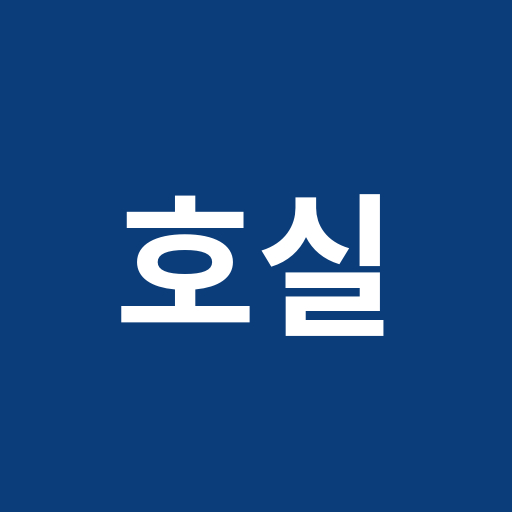
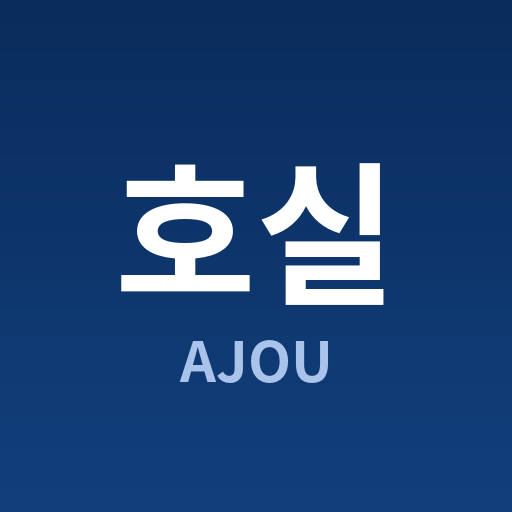
PC·모바일 통합 반응형 리디자인, sw v4, 데스크톱 설치

Changed region(s): [[0.0, 0.0, 1.0, 0.1875], [0.2188, 0.3125, 0.75, 0.75], [0.6875, 0.3125, 0.75, 0.4062]]

diff --git a/index.html b/index.html
@@ -1,70 +1,141 @@
-<!doctype html><html lang="ko"><head><meta charset="utf-8"><meta name="viewport" content="width=device-width,initial-scale=1,viewport-fit=cover">
-<title>호실조회</title><link rel="manifest" href="manifest.webmanifest"><meta name="theme-color" content="#0b3d7a">
-<link rel="apple-touch-icon" href="icon-192.png"><meta name="apple-mobile-web-app-capable" content="yes">
+<!doctype html><html lang="ko"><head><meta charset="utf-8">
+<meta name="viewport" content="width=device-width,initial-scale=1,viewport-fit=cover">
+<title>아주대 호실 조회</title><link rel="manifest" href="manifest.webmanifest"><meta name="theme-color" content="#0a2c5c">
+<link rel="icon" href="icon-192.png"><link rel="apple-touch-icon" href="icon-192.png"><meta name="apple-mobile-web-app-capable" content="yes">
+<link rel="stylesheet" href="https://cdn.jsdelivr.net/gh/orioncactus/pretendard@v1.3.9/dist/web/variable/pretendardvariable-dynamic-subset.min.css">
 <style>
-*{box-sizing:border-box}body{font-family:'Malgun Gothic','Apple SD Gothic Neo',sans-serif;margin:0;background:#f4f6f9;color:#222}
-header{background:#0b3d7a;color:#fff;padding:12px 14px;font-size:18px;font-weight:bold;padding-top:calc(12px + env(safe-area-inset-top))}
-.bar{position:sticky;top:0;background:#fff;padding:10px;display:flex;flex-direction:column;gap:8px;box-shadow:0 1px 3px #0002;z-index:2}
-input,select{font-size:16px;padding:10px;border:1px solid #bbb;border-radius:8px;width:100%}
-#info{padding:8px 14px;color:#666;font-size:13px}
-.it{background:#fff;margin:0 10px 8px;border-radius:10px;padding:12px;box-shadow:0 1px 2px #0002}
-.it b{font-size:15px}.it .s{color:#666;font-size:13px;margin-top:3px}
-mark{background:#ffe066}
-.chip:hover::after{content:attr(data-tip);position:absolute;left:50%;bottom:125%;transform:translateX(-50%);background:#222;color:#fff;padding:4px 8px;border-radius:4px;white-space:nowrap;font-size:12px;z-index:50;pointer-events:none}
-.asb{display:inline-block;background:#d62828;color:#fff;border-radius:4px;padding:1px 6px;font-size:12px;margin-left:4px}.asb.b{background:#e07a00}
-.chip{display:inline-block;background:#e3ecf8;color:#0b3d7a;border-radius:12px;padding:3px 10px;margin:2px;font-size:13px;position:relative;cursor:pointer}
-#sh{position:fixed;inset:0;background:#0006;display:none;z-index:9}#sh.on{display:block}
-.sheet{position:absolute;left:0;right:0;bottom:0;background:#fff;border-radius:16px 16px 0 0;padding:16px 18px calc(20px + env(safe-area-inset-bottom));max-height:85vh;overflow:auto}
-.sheet h3{margin:4px 0 12px}.grab{width:40px;height:4px;background:#ccc;border-radius:2px;margin:0 auto 8px}
-dl{display:grid;grid-template-columns:80px 1fr;gap:10px;margin:0}dt{color:#666}dd{margin:0}
-.code{font-size:12px;color:#555;margin-top:4px}.muted{color:#999}
-button{width:100%;margin-top:16px;padding:12px;font-size:16px;border:0;border-radius:8px;background:#0b3d7a;color:#fff}
+:root{--navy:#0a2c5c;--navy2:#123f7d;--acc:#2f6fdb;--bg:#f3f5f9;--card:#fff;--line:#e6e9ef;--tx:#1b2433;--sub:#667085;--mut:#98a2b3;--r:14px;--sh:0 1px 2px rgba(16,24,40,.05),0 4px 14px rgba(16,24,40,.06)}
+*{box-sizing:border-box}html,body{margin:0;height:100%}
+body{font-family:'Pretendard Variable',Pretendard,-apple-system,'Malgun Gothic','Apple SD Gothic Neo',sans-serif;background:var(--bg);color:var(--tx);font-size:14px;-webkit-font-smoothing:antialiased}
+header{background:linear-gradient(120deg,var(--navy),var(--navy2));color:#fff;padding:18px 28px calc(64px) ;padding-top:calc(18px + env(safe-area-inset-top))}
+.hd{display:flex;align-items:center;gap:12px;max-width:1400px;margin:0 auto}
+.logo{width:36px;height:36px;border-radius:10px;background:rgba(255,255,255,.14);display:grid;place-items:center;font-weight:800;font-size:13px}
+.hd h1{font-size:19px;margin:0;font-weight:700;letter-spacing:-.3px}.hd .dt{margin-left:auto;font-size:12px;opacity:.75}
+.lock{background:none;border:1px solid rgba(255,255,255,.3);color:#fff;border-radius:8px;padding:5px 10px;font:inherit;font-size:12px;cursor:pointer;margin-left:10px}
+.main{max-width:1400px;margin:-48px auto 0;padding:0 28px 28px}
+.sbox{background:var(--card);border-radius:var(--r);box-shadow:var(--sh);padding:14px;display:flex;gap:10px;flex-wrap:wrap;align-items:center}
+.inp{flex:1;min-width:220px;position:relative}.inp svg{position:absolute;left:14px;top:50%;transform:translateY(-50%);color:var(--mut)}
+.inp input{width:100%;height:46px;border:1.5px solid var(--line);border-radius:10px;padding:0 44px;font:inherit;font-size:16px;outline:none;transition:.15s}
+.inp input:focus{border-color:var(--acc);box-shadow:0 0 0 4px rgba(47,111,219,.12)}
+.kbd{position:absolute;right:12px;top:50%;transform:translateY(-50%);border:1px solid var(--line);border-radius:6px;padding:1px 7px;font-size:12px;color:var(--mut)}
+select{height:46px;border:1.5px solid var(--line);border-radius:10px;padding:0 12px;font:inherit;font-size:15px;background:#fff;min-width:150px;outline:none}
+.bchips{display:flex;gap:6px;overflow-x:auto;padding:12px 2px 2px;scrollbar-width:none}.bchips::-webkit-scrollbar{display:none}
+.bc{flex:none;border:1px solid var(--line);background:#fff;border-radius:999px;padding:6px 12px;font:inherit;font-size:13px;color:var(--sub);cursor:pointer}
+.bc.on{background:var(--navy);border-color:var(--navy);color:#fff}
+.grid{display:grid;grid-template-columns:1fr;gap:16px;margin-top:16px}
+.panel{background:var(--card);border-radius:var(--r);box-shadow:var(--sh);overflow:hidden}
+.ph{padding:14px 18px;border-bottom:1px solid var(--line);display:flex;align-items:center;gap:8px;font-weight:600}.ph .n{color:var(--sub);font-weight:500;font-size:13px}
+.it{padding:13px 18px;border-bottom:1px solid var(--line);cursor:pointer;display:flex;gap:12px;align-items:center;transition:background .1s}
+.it:last-child{border-bottom:0}.it:hover{background:#f7f9fc}.it.sel{background:#eef4ff;box-shadow:inset 3px 0 var(--acc)}
+.rn{flex:none;min-width:62px;height:38px;padding:0 8px;border-radius:9px;background:#eef2f8;color:var(--navy);font-weight:700;display:grid;place-items:center;font-size:14px}
+.it .t{min-width:0;flex:1}.it .nm{font-weight:600;font-size:15px;white-space:nowrap;overflow:hidden;text-overflow:ellipsis}
+.it .s{color:var(--sub);font-size:12.5px;margin-top:2px}.it .ar{color:var(--mut);font-size:13px;flex:none}
+mark{background:#ffe58a;color:inherit;border-radius:3px;padding:0 1px}
+.bdg{display:inline-flex;align-items:center;gap:4px;font-size:11.5px;font-weight:600;border-radius:6px;padding:2px 7px;margin-left:6px;vertical-align:1px;white-space:nowrap}
+.bdg.t{background:#fdecec;color:#c62828;border:1px solid #f5c2c2}.bdg.b{background:#fff3e0;color:#b45309;border:1px solid #fbd38d}
+.bdg::before{content:'';width:6px;height:6px;border-radius:50%;background:currentColor}
+.chip{display:inline-block;background:#eaf1fd;color:var(--navy2);border-radius:999px;padding:3px 11px;margin:2px 4px 2px 0;font-size:12.5px;font-weight:600;position:relative;cursor:pointer}
+.chip:hover{background:var(--navy2);color:#fff}
+.chip:hover::after{content:attr(data-tip);position:absolute;left:50%;bottom:calc(100% + 8px);transform:translateX(-50%);background:#1b2433;color:#fff;padding:6px 10px;border-radius:7px;white-space:nowrap;font-size:12px;font-weight:500;z-index:50;pointer-events:none;box-shadow:0 6px 16px rgba(0,0,0,.2)}
+.chip:hover::before{content:'';position:absolute;left:50%;bottom:calc(100% + 3px);transform:translateX(-50%);border:5px solid transparent;border-top-color:#1b2433;z-index:50}
+.mut{color:var(--mut)}
+.det{padding:20px 22px}.det .loc{color:var(--sub);font-size:13px;font-weight:500}.det h2{margin:4px 0 16px;font-size:22px;letter-spacing:-.4px}
+.kv{display:grid;grid-template-columns:repeat(2,1fr);gap:10px;margin-bottom:12px}
+.kv>div{background:#f7f9fc;border:1px solid var(--line);border-radius:10px;padding:10px 12px}.kv>.full{grid-column:1/-1}
+.kv label{display:block;color:var(--sub);font-size:12px;margin-bottom:3px}.kv b{font-weight:600;font-size:14.5px}
+.code{font-size:12px;color:var(--sub);margin-top:6px;min-height:16px}
+.ft{width:100%;border-collapse:collapse;font-size:13px}.ft td,.ft th{padding:8px 18px;border-top:1px solid var(--line);text-align:left;vertical-align:middle}
+.ft th{background:#f7f9fc;color:var(--sub);font-weight:600;font-size:12px}.ft tr.c{cursor:pointer}.ft tr.c:hover{background:#f7f9fc}.ft tr.hit{background:#eef4ff}.ft td:first-child{white-space:nowrap}
+.empty{padding:48px 24px;text-align:center;color:var(--sub)}.empty .ic{font-size:34px;margin-bottom:10px}.empty b{display:block;color:var(--tx);font-size:16px;margin-bottom:6px}
+.ex{display:inline-block;margin:4px;padding:5px 11px;border-radius:999px;background:#eef2f8;color:var(--navy);cursor:pointer;font-size:13px}
+.note{color:var(--mut);font-size:12px;padding:10px 4px 0}
+#sh{position:fixed;inset:0;background:rgba(15,23,42,.45);display:none;z-index:30}#sh.on{display:block}
+.sheet{position:absolute;left:0;right:0;bottom:0;background:#fff;border-radius:20px 20px 0 0;max-height:88vh;overflow:auto;padding-bottom:calc(16px + env(safe-area-inset-bottom));animation:up .2s ease}
+@keyframes up{from{transform:translateY(40px);opacity:.5}}
+.grab{width:40px;height:4px;background:#d0d5dd;border-radius:2px;margin:10px auto 0}
+.cls{display:block;margin:12px 18px 0;width:calc(100% - 36px);height:48px;border:0;border-radius:12px;background:var(--navy);color:#fff;font:inherit;font-size:16px;font-weight:600}
+#detail{display:none}
+@media(min-width:1000px){.grid{grid-template-columns:minmax(380px,5fr) 7fr;align-items:start}
+ #detail{display:block;position:sticky;top:16px;max-height:calc(100vh - 32px);overflow:auto}#res{max-height:calc(100vh - 220px);overflow:auto}}
+@media(max-width:640px){header{padding:14px 16px 56px;padding-top:calc(14px + env(safe-area-inset-top))}.main{padding:0 12px 20px}.hd .dt{display:none}
+ .sbox{padding:10px}select{width:100%}.inp{min-width:100%}.kbd{display:none}.det{padding:16px 18px}.ft td,.ft th{padding:8px 12px}}
+#pin{position:fixed;inset:0;z-index:60;background:radial-gradient(1200px 600px at 20% -10%,#1d4f96,transparent),linear-gradient(160deg,#0a2c5c,#061a38);display:grid;place-items:center;padding:24px}
+.pc{background:rgba(255,255,255,.98);border-radius:20px;padding:34px 28px;width:100%;max-width:360px;text-align:center;box-shadow:0 20px 60px rgba(0,0,0,.35)}
+.pc .logo{margin:0 auto 14px;width:56px;height:56px;border-radius:16px;background:var(--navy);color:#fff;font-size:17px}
+.pc h2{margin:0 0 6px;font-size:21px}.pc p{margin:0 0 22px;color:var(--sub);font-size:13.5px}
+.pc input{width:100%;height:54px;border:1.5px solid var(--line);border-radius:12px;text-align:center;font-size:26px;letter-spacing:14px;font-family:inherit;outline:none}
+.pc input:focus{border-color:var(--acc);box-shadow:0 0 0 4px rgba(47,111,219,.12)}
+.pc button{margin-top:12px;width:100%;height:50px;border:0;border-radius:12px;background:var(--navy);color:#fff;font:inherit;font-size:16px;font-weight:600;cursor:pointer}
+.pe{color:#d92d20;font-size:13px;min-height:18px;margin-top:10px}.shake{animation:sk .3s}@keyframes sk{25%{transform:translateX(-6px)}75%{transform:translateX(6px)}}
 </style></head><body>
-<header>호실조회</header>
-<div class="bar"><select id="bf"><option value="">전체 건물</option></select>
-<input id="q" type="search" autocomplete="off" placeholder="호실번호 또는 호실명 (예: 432, 학장실)"></div>
-<div id="info">불러오는 중…</div><div id="list"></div>
-<div id="pin" style="position:fixed;inset:0;background:#0b3d7a;z-index:20;display:flex;flex-direction:column;align-items:center;justify-content:center;color:#fff;gap:14px;padding:30px">
-<div style="font-size:22px;font-weight:bold">호실조회</div><div style="font-size:14px;opacity:.8">비밀번호를 입력하세요</div>
-<input id="pw" type="password" inputmode="numeric" autocomplete="off" style="max-width:220px;text-align:center;font-size:22px;letter-spacing:8px">
-<button id="ub" style="max-width:220px;margin:0;background:#fff;color:#0b3d7a;font-weight:bold">확인</button><div id="pe" style="color:#ffb3b3;font-size:14px;min-height:18px"></div></div>
-<div id="sh" onclick="if(event.target==this)cl()"><div class="sheet" id="sc"></div></div>
+<div id="pin"><div class="pc" id="pcard"><div class="logo">AJOU</div><h2>아주대 호실 조회</h2><p>시설팀 내부용 · 비밀번호를 입력하세요</p>
+<input id="pw" type="password" inputmode="numeric" autocomplete="off" maxlength="12"><button id="ub">잠금 해제</button><div class="pe" id="pe"></div></div></div>
+<header><div class="hd"><div class="logo">AJOU</div><h1>아주대 호실 조회</h1><span class="dt">자료 기준 2026.10.14 · 공간포털 + 시설팀 공사대장</span><button class="lock" onclick="lockApp()">잠금</button></div></header>
+<div class="main">
+<div class="sbox"><select id="bf"><option value="">전체 건물</option></select>
+<div class="inp"><svg width="18" height="18" viewBox="0 0 24 24" fill="none" stroke="currentColor" stroke-width="2.2"><circle cx="11" cy="11" r="7"/><path d="m20 20-3.5-3.5"/></svg>
+<input id="q" type="search" autocomplete="off" placeholder="호실번호 또는 호실명 (예: 432, 학장실, 팔달관 432)"><span class="kbd">/</span></div>
+<div class="bchips" id="bchips" style="width:100%"></div></div>
+<div class="grid"><div class="panel"><div class="ph">검색 결과 <span class="n" id="info"></span></div><div id="res"></div></div>
+<div class="panel" id="detail"></div></div>
+<div class="note">기숙사·부속시설 등 일부 건물은 조회 대상에서 제외됩니다. 공사 연도에 마우스를 올리거나 누르면 공사번호가 보입니다.</div></div>
+<div id="sh" onclick="if(event.target==this)cl()"><div class="sheet"><div class="grab"></div><div id="sc"></div><button class="cls" onclick="cl()">닫기</button></div></div>
 <script>
-let S=[],R=[];const $=id=>document.getElementById(id);
+let S=[],R=[],key='';const $=id=>document.getElementById(id);const wide=()=>matchMedia('(min-width:1000px)').matches;
 const norm=s=>String(s).replace(/\s|-/g,'').toUpperCase();
-const esc=s=>String(s??'').replace(/[&<>"]/g,c=>({'&':'&amp;','<':'&lt;','>':'&gt;','"':'&quot;'}[c]));
-const asb=x=>x.asb=='텍스'?'<span class="asb">석면</span>':x.asb=='밤'?'<span class="asb b">석면(밤라이트)</span>':'';
+const esc=s=>String(s??'').replace(/[&<>"']/g,c=>({'&':'&amp;','<':'&lt;','>':'&gt;','"':'&quot;',"'":'&#39;'}[c]));
+const asb=x=>x.asb=='텍스'?'<span class="bdg t" title="석면텍스 (천장재)">석면</span>':x.asb=='밤'?'<span class="bdg b" title="밤라이트 (벽체)">석면(밤라이트)</span>':'';
 function hl(t,k){t=String(t??'');if(!k)return esc(t);const re=new RegExp([...k].map(c=>c.replace(/[.*+?^${}()|[\]\\]/g,'\\$&')).join('\\s*'),'i');const m=t.match(re);
  return m?esc(t.slice(0,m.index))+'<mark>'+esc(m[0])+'</mark>'+esc(t.slice(m.index+m[0].length)):esc(t)}
-function search(){const q=$('q').value.normalize('NFC').replace(/\s+/g,' ').trim(),bf=$('bf').value,P=bf?S.filter(x=>x.b==bf):S;let res=[],key='';
- if(!q){if(!bf){$('info').textContent='건물을 고르거나 검색어를 입력하세요';$('list').innerHTML='';return}res=P}
+function chips(w){if(!w||!w.length)return '<span class="mut">이력 없음</span>';const g={};w.forEach(([y,c])=>(g[y]=g[y]||[]).push(c));
+ return Object.keys(g).sort().map(y=>{const t=esc(g[y].join(', '));return `<span class="chip" data-tip="${t}" onclick="showCode(this,'${y}')">${y}${g[y].length>1?' ×'+g[y].length:''}</span>`}).join('')}
+function showCode(e,y){const c=e.closest('[data-cw]');if(c){const o=c.querySelector('.code');if(o)o.textContent=y+' → '+e.dataset.tip}}
+const EMPTY=`<div class="empty"><div class="ic">🔎</div><b>호실을 검색해 보세요</b>호실번호·호실명으로 찾거나 건물을 골라 전체 호실을 볼 수 있어요.<br><br>
+<span class="ex" onclick="ex('학장실')">학장실</span><span class="ex" onclick="ex('팔달관 432')">팔달관 432</span><span class="ex" onclick="ex('세미나실')">세미나실</span></div>`;
+function ex(q){$('q').value=q;search()}
+function search(){const q=$('q').value.normalize('NFC').replace(/\s+/g,' ').trim(),bf=$('bf').value,P=bf?S.filter(x=>x.b==bf):S;let res=[];key='';
+ if(!q){if(!bf){$('info').textContent='';$('res').innerHTML=EMPTY;$('detail').innerHTML=EMPTY;return}res=P}
  else{const m=q.match(/^(.*?)\s*([A-Za-z]?\d[\dA-Za-z\-]*)$/);
   if(m){const b=m[1].trim(),r=norm(m[2]);res=P.filter(x=>(!b||x.b.includes(b))&&norm(x.r)==r);if(!res.length)res=P.filter(x=>(!b||x.b.includes(b))&&norm(x.r).startsWith(r))}
   if(!res.length){const p=q.split(' ');let b='',t=q;if(p.length>1&&P.some(x=>x.b.includes(p[0]))){b=p[0];t=p.slice(1).join(' ')}
    key=t.replace(/\s/g,'').toUpperCase();res=P.filter(x=>(!b||x.b.includes(b))&&String(x.n??'').replace(/\s/g,'').toUpperCase().includes(key));
    if(!res.length&&!b){key=q.replace(/\s/g,'').toUpperCase();res=P.filter(x=>String(x.n??'').replace(/\s/g,'').toUpperCase().includes(key))}}}
- R=res.slice(0,100);$('info').textContent=res.length?res.length+'건'+(res.length>100?' (상위 100건)':''):'검색 결과가 없습니다';
- $('list').innerHTML=R.map((x,i)=>`<div class="it" onclick="op(${i})"><b>${esc(x.b)} ${esc(x.r)}</b> · ${hl(x.n,key)}${asb(x)}<div class="s">${esc(x.f)} · ${esc(x.u)} · ${x.a??'-'}㎡</div></div>`).join('')}
-function chips(w){if(!w||!w.length)return '<span class="muted">이력 없음</span>';const g={};w.forEach(([y,c])=>(g[y]=g[y]||[]).push(c));
- const ys=Object.keys(g).sort();return ys.map(y=>`<span class="chip" data-tip="${esc(g[y].join(', '))}" title="${esc(g[y].join(', '))}" onclick="this.parentNode.querySelector('.code').textContent='${y}: '+this.title">${y}${g[y].length>1?' ×'+g[y].length:''}</span>`).join('')+'<div class="code muted">연도를 누르면 공사번호가 보여요</div>'}
-function op(i){const x=R[i];$('sc').innerHTML=`<div class="grab"></div><h3>${esc(x.b)} ${esc(x.f)} ${esc(x.r)}호</h3><dl>
-<dt>호실명</dt><dd>${esc(x.n)}</dd><dt>용도</dt><dd>${esc(x.u)}</dd><dt>관리부서</dt><dd>${esc(x.d)}</dd><dt>전용면적</dt><dd>${x.a??'-'} ㎡</dd>
-<dt>천장</dt><dd>${esc(x.c)||'-'}${asb(x)}</dd><dt>바닥</dt><dd>${esc(x.fl)||'-'}</dd><dt>공사이력</dt><dd>${chips(x.w)}</dd></dl><button onclick="cl()">닫기</button>`;$('sh').className='on';history.pushState({s:1},'')}
+ R=res.slice(0,100);$('info').textContent=res.length?`${res.length}건${res.length>100?' · 상위 100건 표시':''}`:'';
+ $('res').innerHTML=R.length?R.map((x,i)=>`<div class="it" id="it${i}" onclick="op(${i})"><div class="rn">${esc(x.r)}</div><div class="t"><div class="nm">${hl(x.n,key)||'<span class="mut">(이름 없음)</span>'}${asb(x)}</div><div class="s">${esc(x.b)} · ${esc(x.f)} · ${esc(x.u)}</div></div><div class="ar">${x.a??'-'}㎡</div></div>`).join('')
+  :`<div class="empty"><div class="ic">🙅</div><b>검색 결과가 없어요</b>호실번호나 이름 일부만 입력해 보세요.</div>`;
+ if(wide()){if(R.length)op(0,1);else $('detail').innerHTML=''}}
+function card(x){const fl=S.filter(y=>y.b==x.b&&y.f==x.f);
+ return `<div class="det" data-cw><div class="loc">${esc(x.b)} · ${esc(x.f)}</div><h2>${esc(x.r)}호 ${esc(x.n)}</h2><div class="kv">
+ <div><label>용도</label><b>${esc(x.u)||'-'}</b></div><div><label>관리부서</label><b>${esc(x.d)||'-'}</b></div>
+ <div><label>전용면적</label><b>${x.a??'-'} ㎡</b></div><div><label>바닥</label><b>${esc(x.fl)||'<span class="mut">-</span>'}</b></div>
+ <div class="full"><label>천장</label><b>${esc(x.c)||'<span class="mut">-</span>'}</b>${asb(x)}</div>
+ <div class="full"><label>공사이력</label>${chips(x.w)}<div class="code"></div></div></div></div>
+ <div class="ph" style="border-top:1px solid var(--line)">같은 층 호실 <span class="n">${fl.length}개</span></div>
+ <table class="ft"><tr><th>호실</th><th>호실명</th><th>천장</th><th>공사</th></tr>${fl.map(y=>`<tr class="c ${y===x?'hit':''}" onclick="openX(${S.indexOf(y)})"><td><b>${esc(y.r)}</b></td><td>${esc(y.n)}</td><td>${esc(y.c)||'<span class="mut">-</span>'}${asb(y)}</td><td>${chips(y.w)}</td></tr>`).join('')}</table>`}
+function openX(si){const x=S[si];if(wide()){$('detail').innerHTML=card(x);$('detail').scrollTop=0;document.querySelectorAll('.it.sel').forEach(e=>e.classList.remove('sel'))}else{$('sc').innerHTML=card(x);$('sc').parentNode.scrollTop=0}}
+function op(i,auto){const x=R[i];document.querySelectorAll('.it.sel').forEach(e=>e.classList.remove('sel'));$('it'+i)?.classList.add('sel');
+ if(wide()){$('detail').innerHTML=card(x);$('detail').scrollTop=0}else if(!auto){$('sc').innerHTML=card(x);$('sh').className='on';history.pushState({s:1},'')}}
 function cl(){if($('sh').className){$('sh').className='';if(history.state&&history.state.s)history.back()}}
 addEventListener('popstate',()=>$('sh').className='');
-let t;const el=$('q');el.addEventListener('input',()=>{clearTimeout(t);t=setTimeout(search,300)});
+const el=$('q');let t;el.addEventListener('input',()=>{clearTimeout(t);t=setTimeout(search,300)});
 el.addEventListener('compositionend',()=>{clearTimeout(t);t=setTimeout(search,250)});
-el.addEventListener('keyup',e=>{if(e.key=='Enter'){clearTimeout(t);search();el.blur()}});
-$('bf').addEventListener('change',search);
+el.addEventListener('keyup',e=>{if(e.key=='Enter'){clearTimeout(t);search();if(!wide())el.blur()}});
+addEventListener('keydown',e=>{if(e.key=='/'&&document.activeElement!==el&&document.activeElement!==$('pw')){e.preventDefault();el.focus();el.select()}if(e.key=='Escape')cl()});
+function setB(b){$('bf').value=b;document.querySelectorAll('.bc').forEach(c=>c.classList.toggle('on',c.dataset.b==b));search()}
+$('bf').addEventListener('change',()=>setB($('bf').value));
 const b64=s=>Uint8Array.from(atob(s),c=>c.charCodeAt(0));
 async function unlock(pw){const E=await (await fetch('data.enc.json')).json();
  const km=await crypto.subtle.importKey('raw',new TextEncoder().encode(pw),'PBKDF2',false,['deriveKey']);
  const k=await crypto.subtle.deriveKey({name:'PBKDF2',salt:b64(E.s),iterations:E.it,hash:'SHA-256'},km,{name:'AES-GCM',length:256},false,['decrypt']);
- const pt=await crypto.subtle.decrypt({name:'AES-GCM',iv:b64(E.iv)},k,b64(E.ct));return JSON.parse(new TextDecoder().decode(pt))}
-function start(d){S=d;$('pin').style.display='none';$('bf').innerHTML='<option value="">전체 건물</option>'+[...new Set(S.map(x=>x.b))].sort().map(v=>`<option>${esc(v)}</option>`).join('');
- $('info').textContent='건물을 고르거나 검색어를 입력하세요';if(location.hash){el.value=decodeURIComponent(location.hash.slice(1));search()}}
-async function tryPw(pw,save){$('pe').textContent='확인 중…';try{const d=await unlock(pw);if(save)localStorage.setItem('rp',pw);start(d)}catch(e){localStorage.removeItem('rp');$('pe').textContent=save?'비밀번호가 틀렸어요':''}}
+ return JSON.parse(new TextDecoder().decode(await crypto.subtle.decrypt({name:'AES-GCM',iv:b64(E.iv)},k,b64(E.ct))))}
+function start(d){S=d;$('pin').style.display='none';const bs=[...new Set(S.map(x=>x.b))].sort();
+ $('bf').innerHTML='<option value="">전체 건물</option>'+bs.map(v=>`<option>${esc(v)}</option>`).join('');
+ $('bchips').innerHTML=['',...bs].map(b=>`<button class="bc${b?'':' on'}" data-b="${esc(b)}" onclick="setB(this.dataset.b)">${b?esc(b):'전체'}</button>`).join('');
+ if(location.hash){el.value=decodeURIComponent(location.hash.slice(1))}search();if(wide())el.focus()}
+async function tryPw(pw,save){$('pe').textContent='확인 중…';try{const d=await unlock(pw);localStorage.setItem('rp',pw);start(d)}
+ catch(e){localStorage.removeItem('rp');$('pe').textContent=save?'비밀번호가 맞지 않아요':'';if(save){$('pcard').classList.remove('shake');void $('pcard').offsetWidth;$('pcard').classList.add('shake');$('pw').select()}}}
+function lockApp(){localStorage.removeItem('rp');location.reload()}
 $('ub').onclick=()=>tryPw($('pw').value,true);$('pw').addEventListener('keyup',e=>{if(e.key=='Enter')tryPw($('pw').value,true)});
-if(localStorage.getItem('rp'))tryPw(localStorage.getItem('rp'),false);else $('pw').focus();
+if(localStorage.getItem('rp'))tryPw(localStorage.getItem('rp'),false);else{$('pe').textContent='';$('pw').focus()}
 if('serviceWorker' in navigator&&location.protocol!='file:')navigator.serviceWorker.register('sw.js');
 </script></body></html>

diff --git a/sw.js b/sw.js
@@ -1,4 +1,4 @@
-const C='roomapp-v3',F=['./','index.html','data.enc.json','manifest.webmanifest','icon-192.png','icon-512.png'];
+const C='roomapp-v4',F=['./','index.html','data.enc.json','manifest.webmanifest','icon-192.png','icon-512.png'];
 self.addEventListener('install',e=>{e.waitUntil(caches.open(C).then(c=>c.addAll(F)));self.skipWaiting()});
 self.addEventListener('activate',e=>{e.waitUntil(caches.keys().then(k=>Promise.all(k.filter(n=>n!=C).map(n=>caches.delete(n)))));self.clients.claim()});
 self.addEventListener('fetch',e=>{e.respondWith(fetch(e.request).then(r=>{const c=r.clone();caches.open(C).then(x=>x.put(e.request,c));return r}).catch(()=>caches.match(e.request,{ignoreSearch:true})))});
